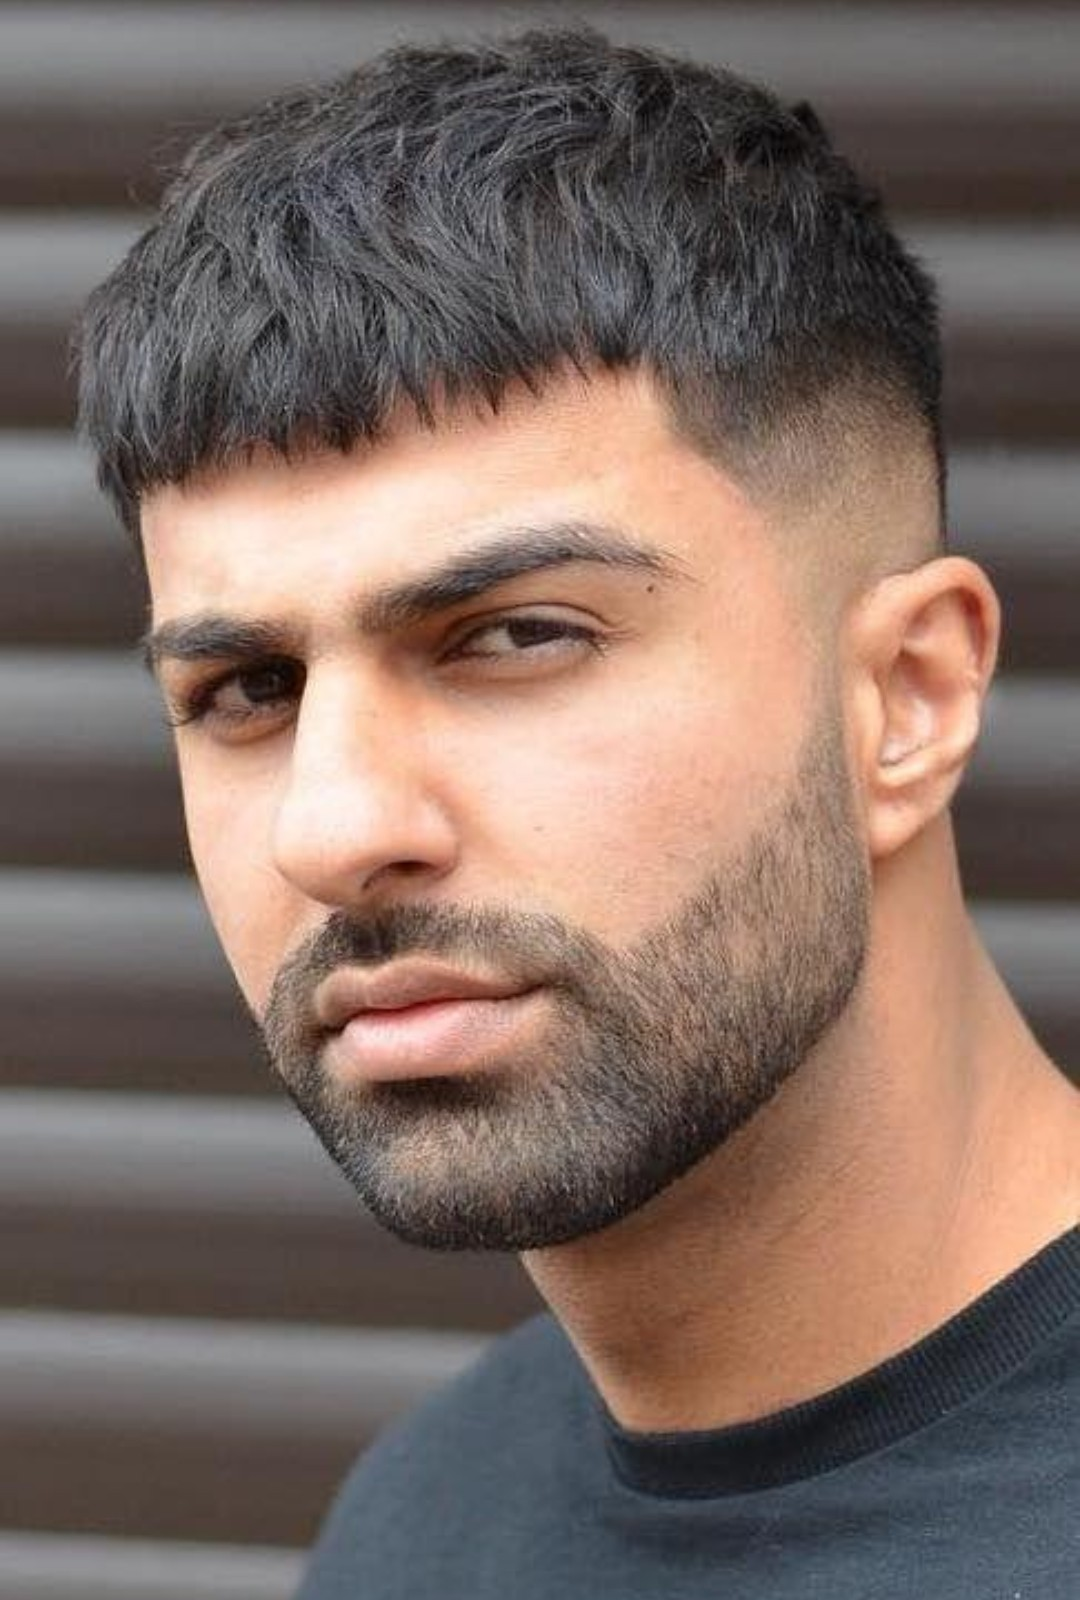
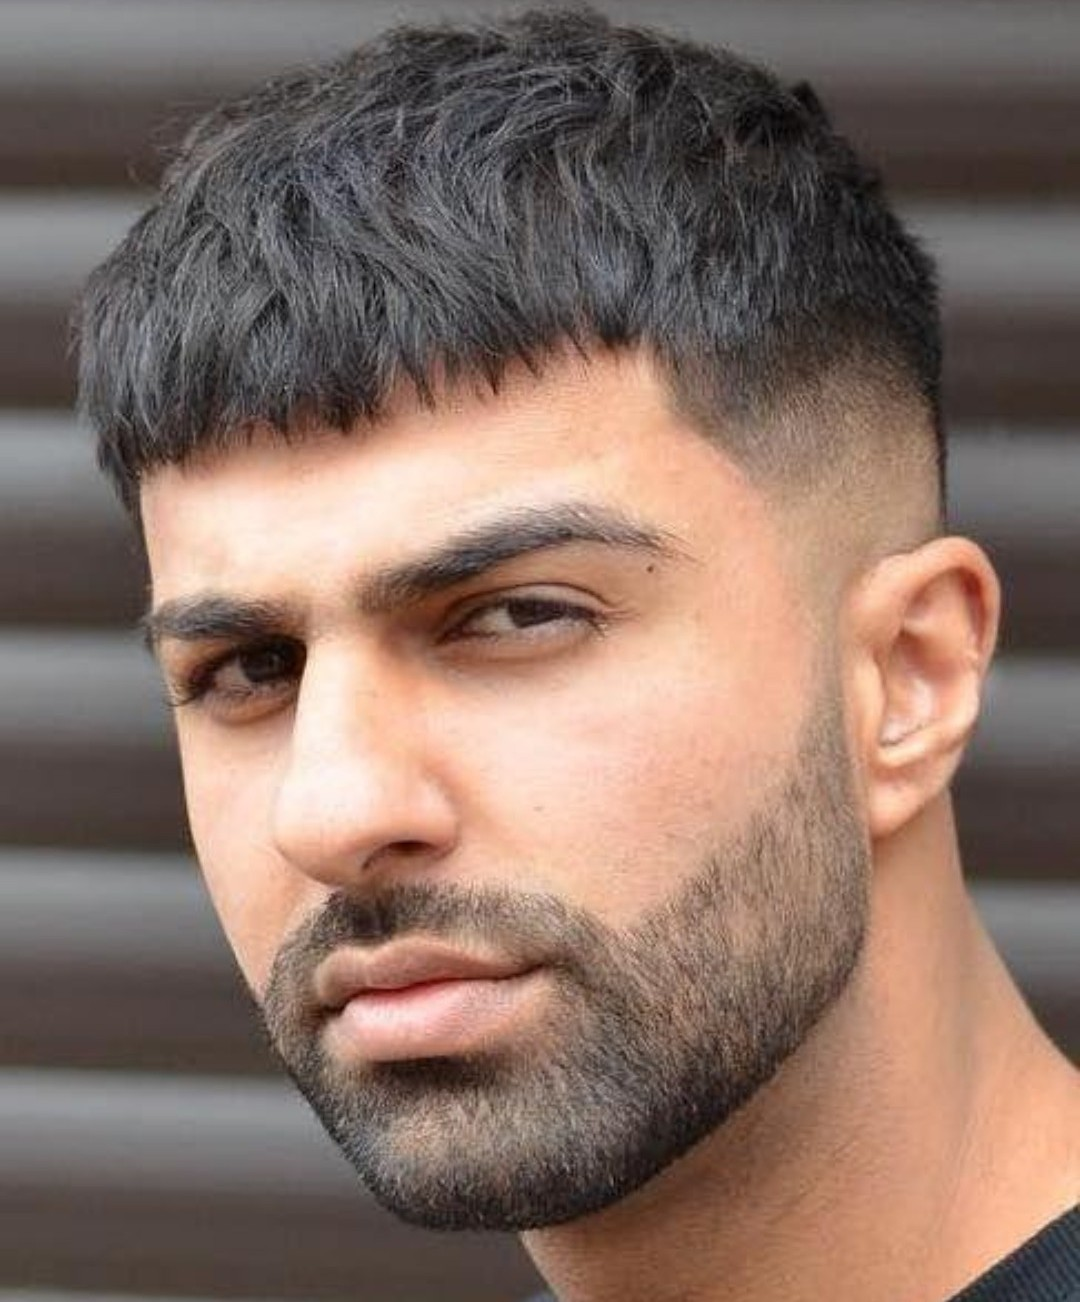
finaliza css para tablet com as alterações na pagina sobre nos

diff --git a/css/sobreNos.css b/css/sobreNos.css
@@ -31,8 +31,7 @@
 }
 .sobreNos_img{
     margin: 0 auto;
-    width: 350px;
-    height: 350px;
+    width: 450px;
     border-radius: 10px;
     border: 2px solid black;
 }
